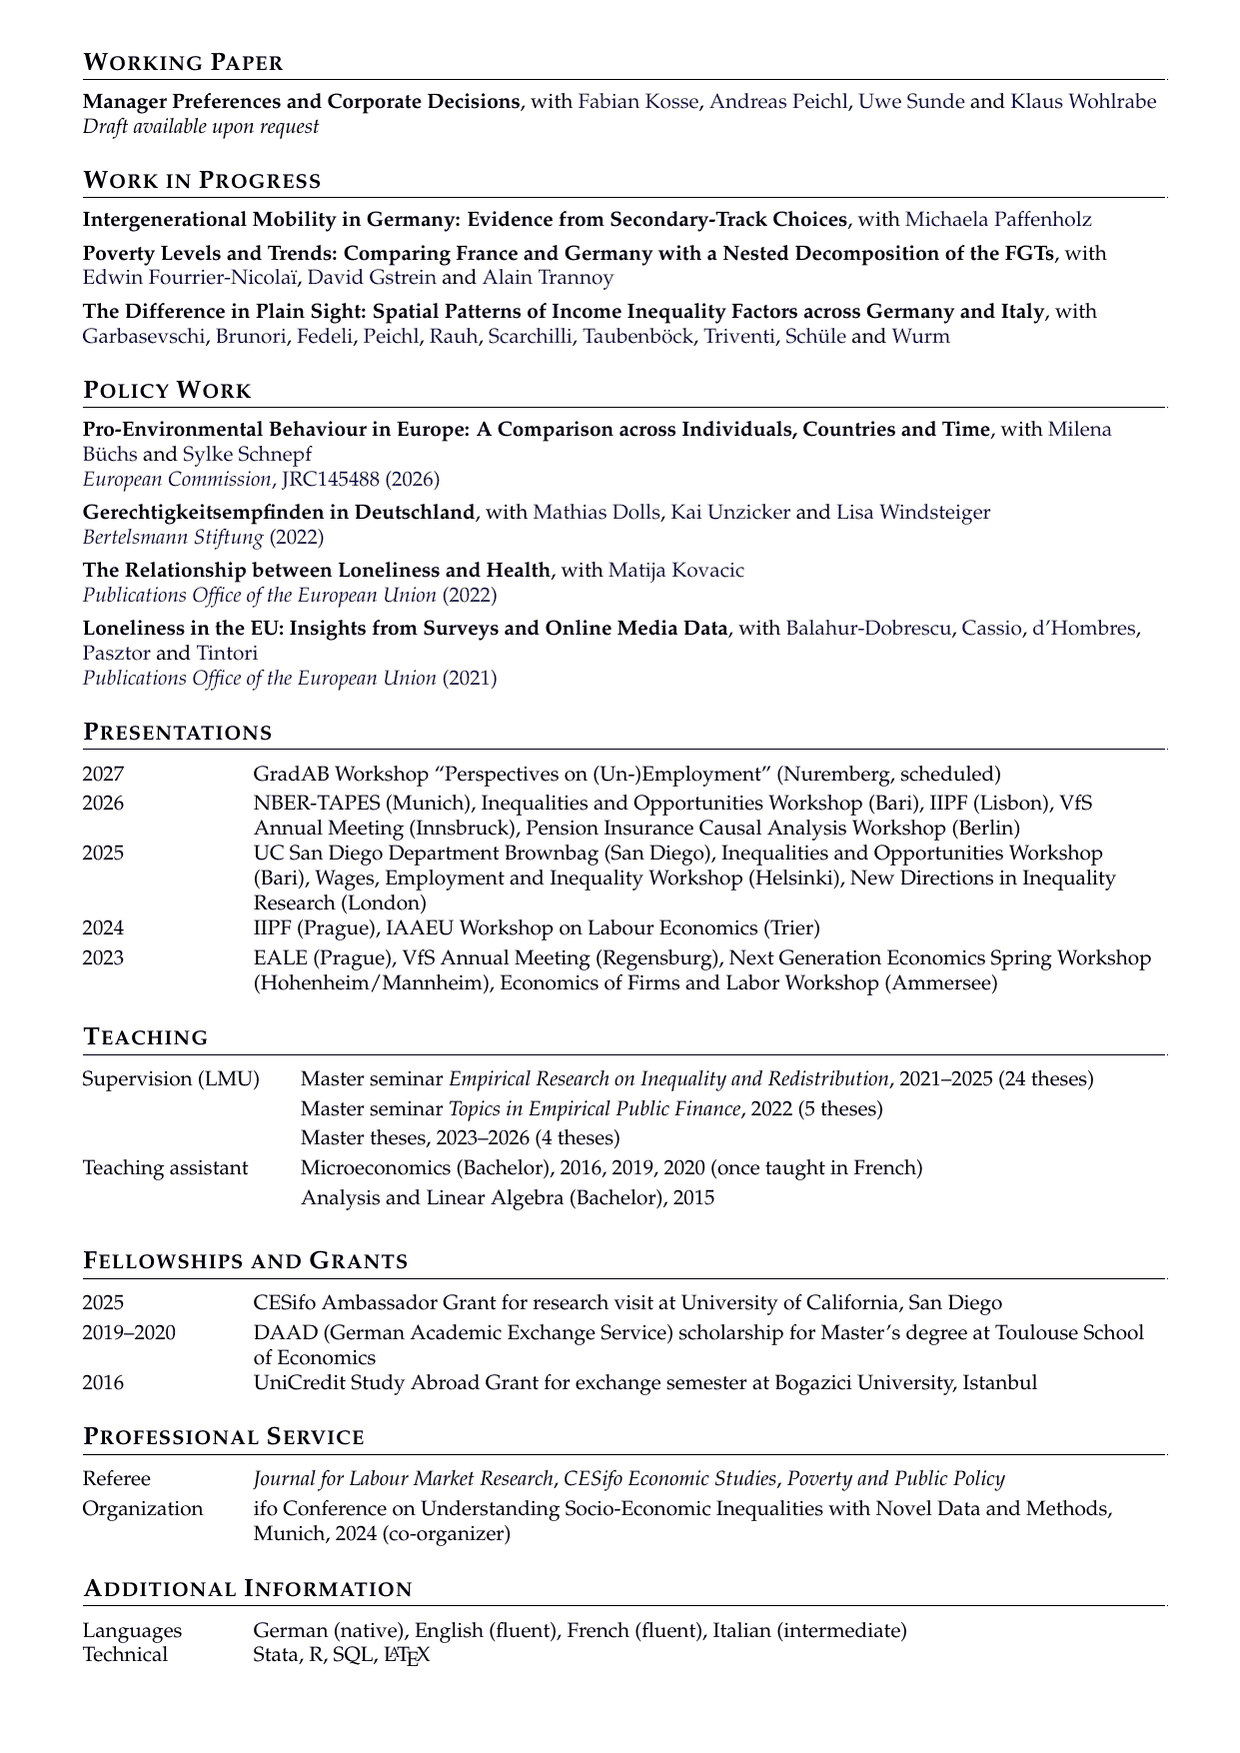
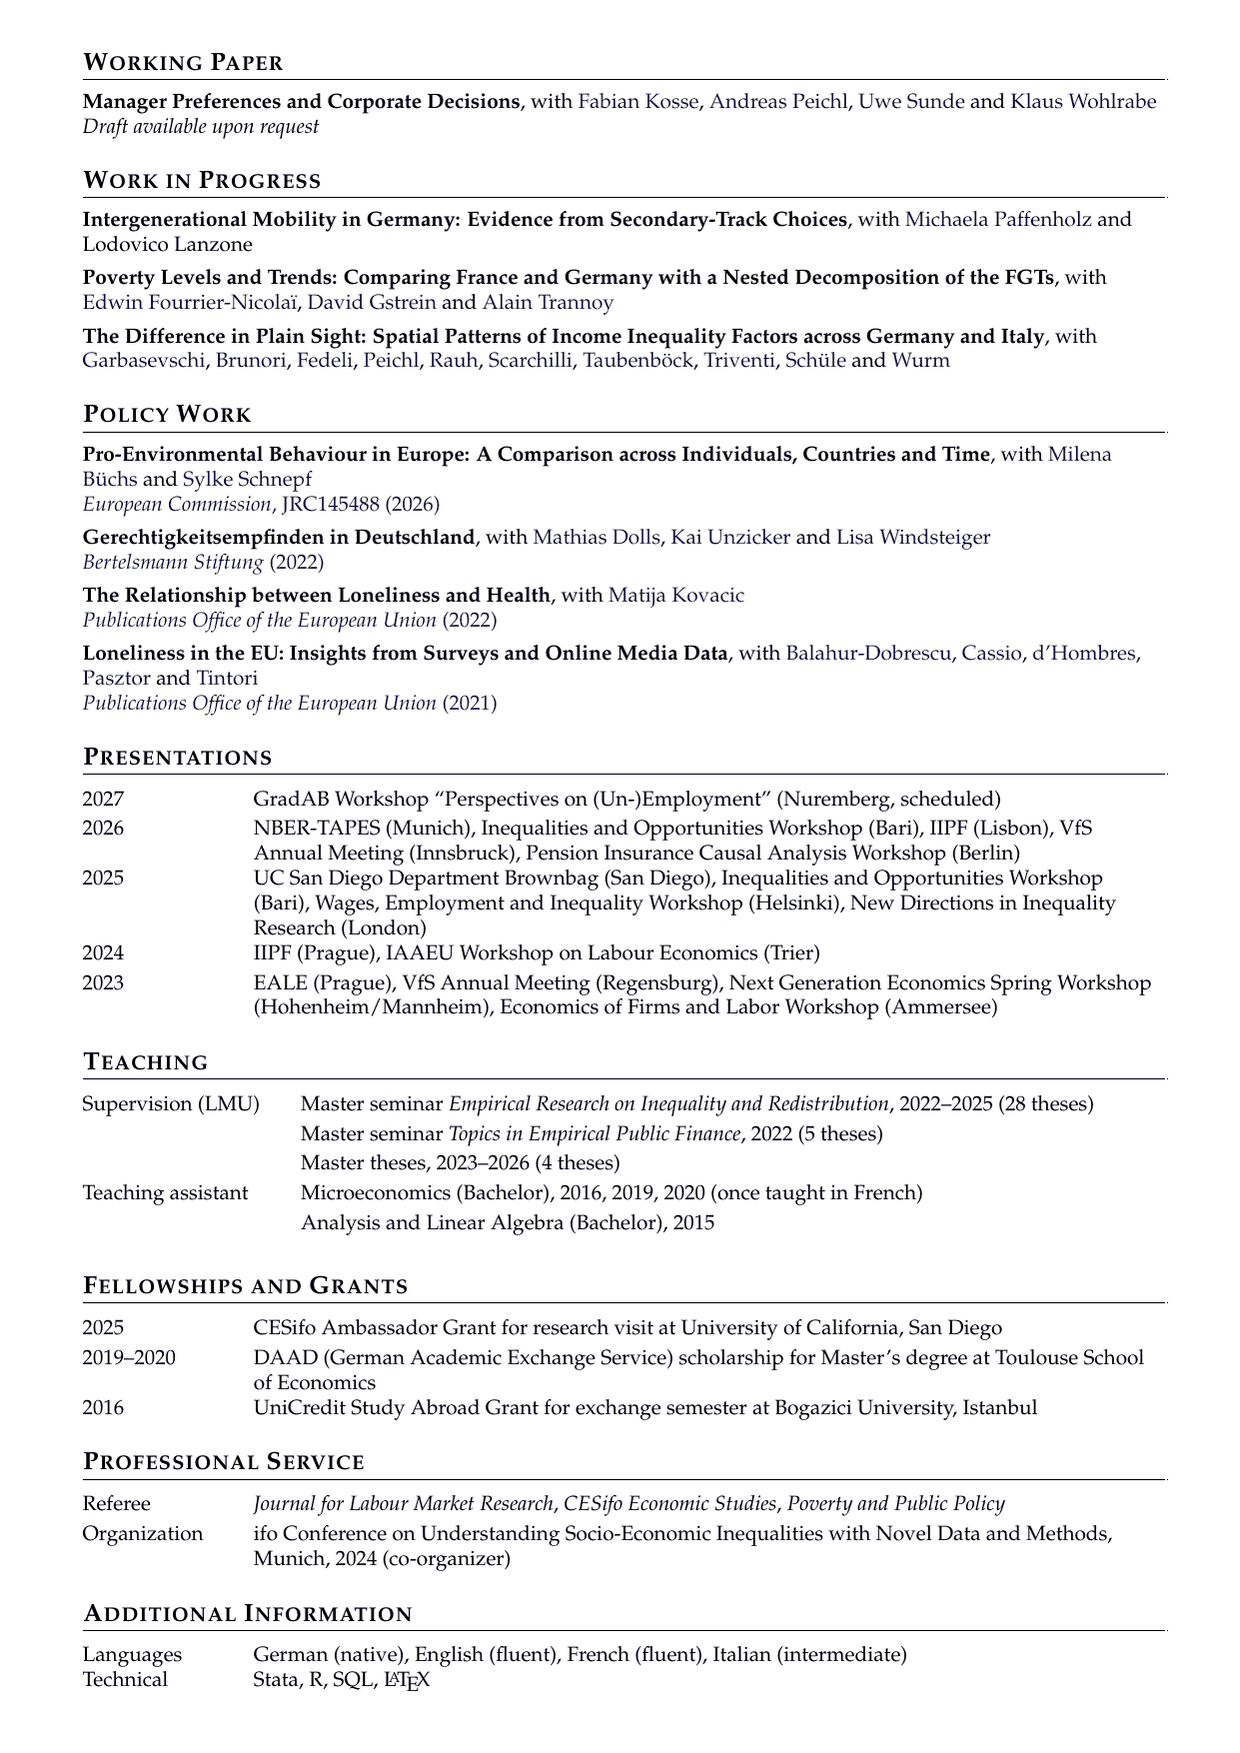
Update CV, ERIR seminar dates and research descriptions
- New CV PDF and page images (ERIR seminar 2022-2025, 28 theses)
- Teaching page: ERIR seminar years 2022-2025
- Home and research pages: revised research summary and abstracts

Changed region(s): [[0.0613, 0.1232, 0.9194, 0.9857], [0.7968, 0.3388, 0.9194, 0.4005]]

diff --git a/research.html b/research.html
@@ -35,9 +35,10 @@
 
   <h1 class="page-title">Research</h1>
   <p class="lede">
-    My work is in labor and public economics. I study how
-    institutions shape occupational choice, the intergenerational transmission of
-    inequality, and how information shapes fairness views and support for redistribution.
+    I work at the intersection of labor economics and public economics. I study how
+    institutions affect the careers people end up in, how inequality evolves and is transmitted
+    across generations, and how beliefs and preferences shape decisions, from voters&rsquo;
+    support for redistribution to managers&rsquo; investment.
   </p>
 
   <!-- ====================================================================
@@ -78,7 +79,7 @@
       </div>
       <figure class="paper-figure">
         <p class="figure-title">Work in occupation related to social alternative service</p>
-        <p class="panel-label">Treated cohort</p>
+        <p class="panel-label">Treated cohort (before/after abolition of service)</p>
         <img src="assets/research/jmp-treated-cohort.png" width="900" height="582"
              alt="Share of men ever working in an occupation related to the social alternative service at ages 24 to 29, by birth month, for the treated cohort: higher for men born January to June than for men born July to December">
         <p class="panel-label">Control cohorts, pooled</p>
@@ -101,15 +102,15 @@
         <p class="authors">with Moritz Bode and Andreas Peichl</p>
         <p class="status"><em>Journal of Public Economics</em>, 2026, 263, 105811</p>
         <p class="abstract">
-          We provide the first evidence that intergenerational income mobility in Germany has
-          declined over time. Estimating intergenerational persistence for the birth cohorts
-          1968&ndash;1987, we document that the rank-rank slope rises sharply for cohorts born
-          in the late 1970s and early 1980s and then stabilises at a higher level; depending on
-          the specification, the slope increases by 59% to 107%. As a step towards understanding
-          the mechanisms behind this rise, we show that parental income has become considerably
-          more important for children&rsquo;s educational outcomes over the same period. The
-          increase in income persistence coincided with rising cross-sectional income inequality,
-          providing novel evidence for an &ldquo;Intertemporal Great Gatsby Curve&rdquo; in Germany.
+          This paper is the first to systematically show that intergenerational income mobility in
+          Germany has decreased over time. We estimate intergenerational persistence for the birth
+          cohorts 1968&ndash;1987 and find that it rises sharply for cohorts born in the late 1970s
+          and early 1980s, after which it stabilizes at a higher level. As a step toward
+          understanding the mechanisms behind this increase, we show that parental income has
+          become more important for the educational outcomes of children. Moreover, we show that
+          the increase in intergenerational persistence has coincided with a surge in
+          cross-sectional income inequality, providing novel evidence for an &ldquo;Intertemporal
+          Great Gatsby Curve&rdquo;.
         </p>
         <ul class="paper-links">
           <li><a href="https://doi.org/10.1016/j.jpubeco.2026.105811" target="_blank" rel="noopener">Journal article</a></li>
@@ -140,13 +141,19 @@
         <p class="authors">with Mathias Dolls and Lisa Windsteiger</p>
         <p class="status"><em>Journal of Economic Behavior and Organization</em>, 2026, 251, 107749</p>
         <p class="abstract">
-          We study how information about inequality shapes fairness perceptions and policy
-          preferences in a large-scale randomized survey experiment with 4,900 respondents in
-          Germany. Respondents generally underestimate existing wealth and age disparities.
-          Providing accurate information about their extent has little effect on left-leaning
-          and centrist respondents, but elicits a backlash among right-leaning ones: it raises
-          their perceived fairness of the status quo and lowers their support for redistributive
-          and future-oriented policies.
+          This study investigates how information about intragenerational and intergenerational
+          inequalities shapes fairness perceptions and policy preferences. Using a large-scale
+          randomized survey experiment with 4900 respondents in Germany, we examine how exposure
+          to information about wealth and age disparities affects (i) perceptions of distributive
+          and intergenerational fairness, and (ii) support for redistributive and future-oriented
+          policies. We find that roughly two thirds of respondents underestimate the extent of
+          existing inequalities. Moreover, providing accurate information about wealth and age
+          disparities has little effect on left-leaning and centrist respondents, but it produces
+          a peculiar response among right-leaning individuals: the information increases their
+          perceptions of the fairness of the status quo and reduces their support for
+          redistributive and future-oriented policies. Overall, the findings suggest that
+          informational interventions in politicized domains such as inequality may have limited
+          effects when they are perceived as politically biased.
         </p>
         <ul class="paper-links">
           <li><a href="https://doi.org/10.1016/j.jebo.2026.107749" target="_blank" rel="noopener">Journal article</a></li>
@@ -272,7 +279,7 @@
     <article class="paper paper--nofigure">
       <div class="paper-body">
         <h3>Intergenerational Mobility in Germany: Evidence from Secondary-Track Choices</h3>
-        <p class="authors">with Michaela Paffenholz</p>
+        <p class="authors">with Michaela Paffenholz and Lodovico Lanzone</p>
 
         <!-- ===============================================================
              HIDDEN FOR NOW  --  to show the abstract and figure again, delete

diff --git a/index.html b/index.html
@@ -79,9 +79,10 @@
         for Public Economics. I expect to complete my PhD in 2027; my advisor is Andreas Peichl.
       </p>
       <p>
-        My research is in labor and public economics. I study how institutions affect the careers people end up in, how inequality is transmitted
-        across generations, and what shapes people&rsquo;s views about fairness and redistribution. I work primarily with
-        large-scale administrative and survey data.
+        I work at the intersection of labor economics and public economics. I study how institutions affect the careers people end up in,
+        how inequality evolves and is transmitted across generations, and how beliefs and preferences shape decisions, from voters&rsquo;
+        support for redistribution to managers&rsquo; investment. I work primarily with large administrative data, household surveys
+        and own survey data.
       </p>
       <p>
         Before starting my PhD I earned an M.Sc. in Econometrics and Empirical Economics from

diff --git a/teaching.html b/teaching.html
@@ -49,9 +49,9 @@
         </span>
       </li>
       <li>
-        <span class="when">2021&ndash;2025</span>
+        <span class="when">2022&ndash;2025</span>
         <span class="what">
-          Supervised <strong>24 seminar theses</strong> in Master's-level seminar <strong>Empirical Research on Inequality and Redistribution</strong>, with Andreas Peichl
+          Supervised <strong>28 seminar theses</strong> in Master's-level seminar <strong>Empirical Research on Inequality and Redistribution</strong>, with Andreas Peichl
         </span>
       </li>
       <li>

diff --git a/cv.html b/cv.html
@@ -41,7 +41,7 @@
          the reader can save it themselves, and this site stays open behind. -->
     <a class="button button--solid" href="files/Baarck_CV.pdf"
        target="_blank" rel="noopener">Download CV (PDF)</a>
-    <span class="updated">Last updated: October 2026</span>
+    <span class="updated">Last updated: November 2026</span>
   </div>
 
   <!-- The CV is shown as page images rather than an embedded PDF viewer: these
